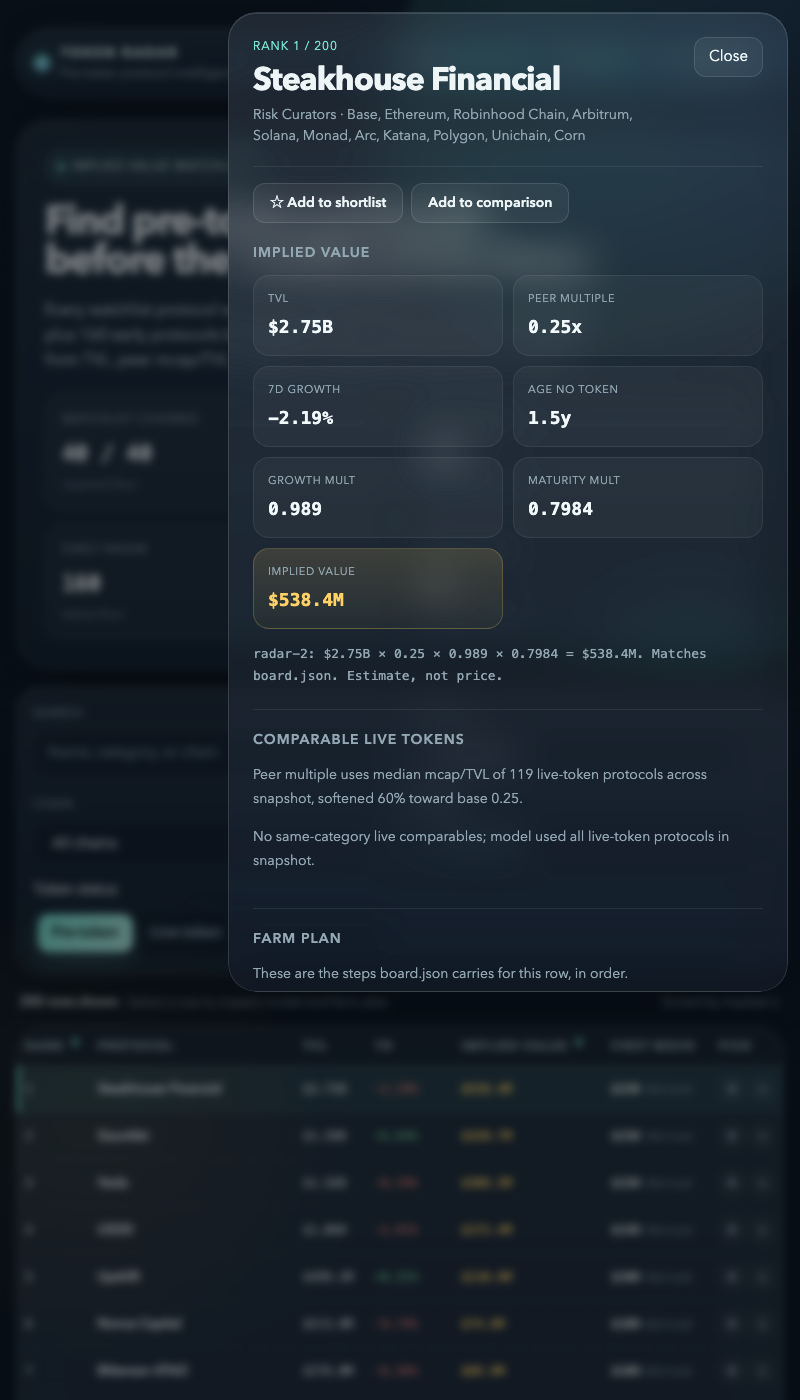
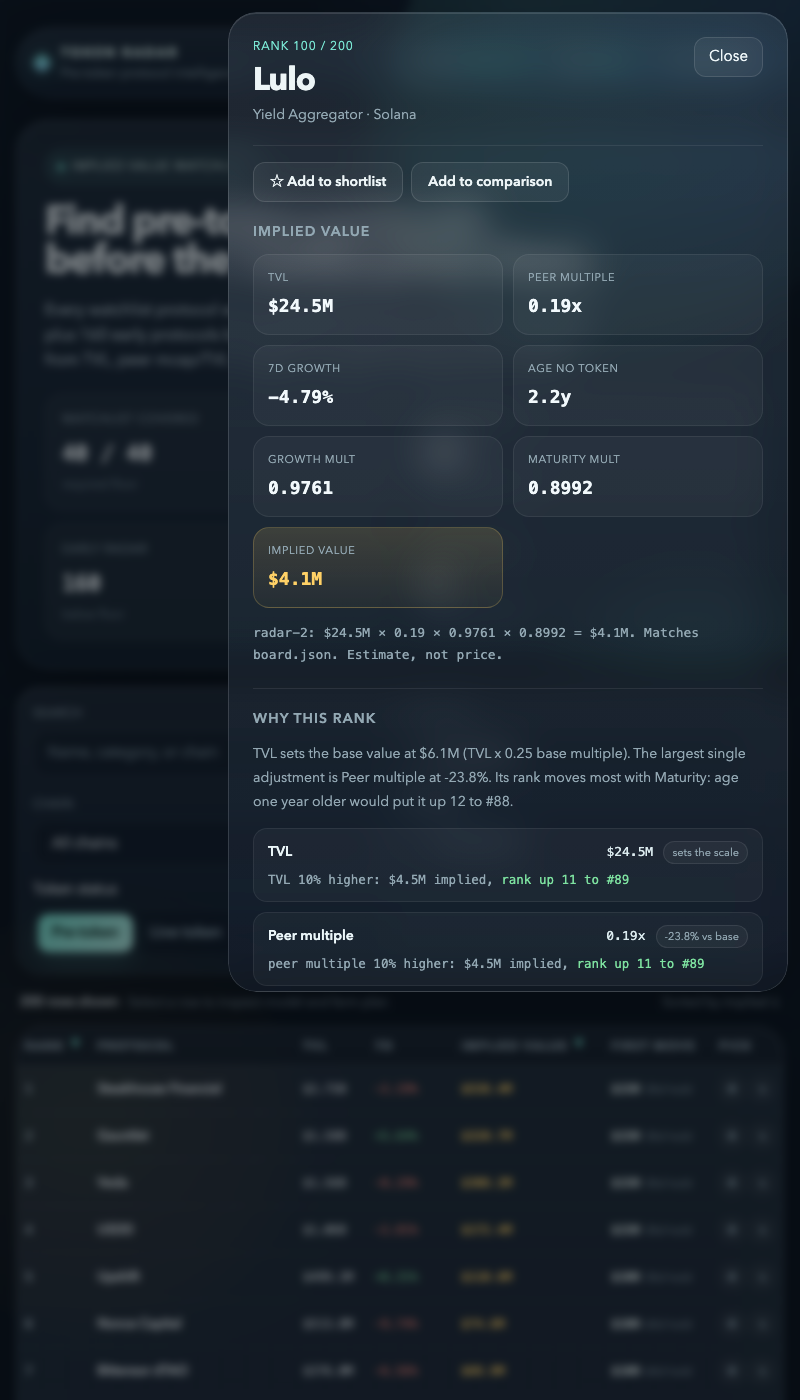
Explain each row's rank in the detail modal
A rank number alone does not say whether a protocol sits high on TVL, on
its category's peer multiple, or on youth. The modal now shows the base
value TVL sets, the largest single adjustment, and what happens to the
rank when TVL, peer multiple, growth or age moves on its own. The what-if
reuses the board's own ordering against the other rows at their board
values, so nothing is scored twice and board.json is unchanged.

diff --git a/dashboard/app.js b/dashboard/app.js
@@ -556,6 +556,81 @@
     );
   }
 
+  // A rank under the board's own ordering: implied value first, then slug, with this row replaced.
+  function rankAmong(implied, slug) {
+    var better = 0;
+    DATA.rows.forEach(function (r) {
+      if (r.slug === slug) return;
+      if (r.implied_value_usd > implied || (r.implied_value_usd === implied && r.slug < slug)) better++;
+    });
+    return better + 1;
+  }
+  function impliedFrom(tvl, multiple, growthMult, maturityMult) {
+    return Math.max(1, Math.round(tvl * multiple * growthMult * maturityMult));
+  }
+  function signedPct(v) { return (v >= 0 ? '+' : '') + (v * 100).toFixed(1) + '%'; }
+  function moveText(from, to) {
+    if (to === from) return 'rank unchanged';
+    var delta = from - to;
+    return 'rank ' + (delta > 0 ? 'up ' + delta + ' to #' + to : 'down ' + -delta + ' to #' + to);
+  }
+
+  function whySection(row) {
+    var m = DATA.model;
+    var mult = row.peer_multiple;
+    var gm = row.growth_multiplier;
+    var mm = row.maturity_multiplier;
+    var age = row.age_days === null || row.age_days === undefined ? m.unknown_age_days : row.age_days;
+    var growth = Math.min(m.growth_cap, Math.max(m.growth_floor, row.change_7d === null || row.change_7d === undefined ? 0 : row.change_7d));
+    var baseValue = row.tvl_usd * m.base_multiple;
+    var peerLift = mult / m.base_multiple;
+
+    var parts = [
+      { name: 'Peer multiple', lift: peerLift, now: mult.toFixed(2) + 'x' },
+      { name: '7d growth', lift: gm, now: fmtPct(row.change_7d) },
+      { name: 'Maturity', lift: mm, now: fmtAge(row.age_days) }
+    ].sort(function (a, b) { return Math.abs(b.lift - 1) - Math.abs(a.lift - 1); });
+    var top = parts[0];
+
+    var moves = [
+      { name: 'TVL', now: fmtUsd(row.tvl_usd), effect: 'sets the scale', change: 'TVL 10% higher', implied: impliedFrom(row.tvl_usd * 1.1, mult, gm, mm) },
+      { name: 'Peer multiple', now: mult.toFixed(2) + 'x', effect: signedPct(peerLift - 1) + ' vs base', change: 'peer multiple 10% higher', implied: impliedFrom(row.tvl_usd, round4(mult * 1.1), gm, mm) },
+      { name: '7d growth', now: fmtPct(row.change_7d), effect: signedPct(gm - 1), change: growth >= m.growth_cap ? 'growth already at the ' + m.growth_cap + ' point cap' : 'growth 10 points higher', implied: impliedFrom(row.tvl_usd, mult, round4(1 + Math.min(m.growth_cap, growth + 10) / 100 * m.growth_weight), mm) },
+      { name: 'Maturity', now: fmtAge(row.age_days), effect: signedPct(mm - 1), change: age >= m.maturity_days ? 'age already past the ' + Math.round(m.maturity_days / 365) + ' year maturity cap' : 'age one year older', implied: impliedFrom(row.tvl_usd, mult, gm, round4(m.maturity_floor + Math.min(age + 365, m.maturity_days) / m.maturity_days * m.maturity_range)) }
+    ];
+    moves.forEach(function (mv) { mv.rank = rankAmong(mv.implied, row.slug); });
+    var most = moves.slice().sort(function (a, b) { return Math.abs(b.rank - row.rank) - Math.abs(a.rank - row.rank); })[0];
+
+    var list = el('div', { class: 'why-list' });
+    moves.forEach(function (mv) {
+      var delta = row.rank - mv.rank;
+      list.appendChild(el('div', { class: 'why-row' },
+        el('div', { class: 'why-top' },
+          el('b', { text: mv.name }),
+          el('span', { class: 'why-now', text: mv.now }),
+          el('span', { class: 'why-eff', text: mv.effect })
+        ),
+        el('div', { class: 'why-move' },
+          mv.change + ': ' + fmtUsd(mv.implied) + ' implied, ',
+          el('span', { class: 'why-rank' + (delta > 0 ? ' up' : delta < 0 ? ' down' : ''), text: moveText(row.rank, mv.rank) })
+        )
+      ));
+    });
+
+    var headline = 'TVL sets the base value at ' + fmtUsd(baseValue) + ' (TVL x ' + m.base_multiple + ' base multiple). ' +
+      'The largest single adjustment is ' + top.name + ' at ' + signedPct(top.lift - 1) + '. ' +
+      (Math.abs(most.rank - row.rank) === 0
+        ? 'None of these one-at-a-time changes moves its rank.'
+        : 'Its rank moves most with ' + most.name + ': ' + most.change + ' would put it ' + moveText(row.rank, most.rank).replace('rank ', '') + '.');
+
+    return el('section', { class: 'section' },
+      el('h3', { text: 'Why this rank' }),
+      el('p', { class: 'detail-copy', text: headline }),
+      list,
+      el('p', { class: 'equation-note', text: 'Each line changes one factor and scores this row again against the other ' + (DATA.board_size - 1) + ' rows at their board values. A what-if for reading the board, not a change to board.json.' })
+    );
+  }
+
   var dialog = el('dialog', { class: 'detail', id: 'detail', 'aria-labelledby': 'detail-title' });
   dialog.addEventListener('close', function () { state.selected = null; writeHash(); render(); });
   dialog.addEventListener('click', function (e) {
@@ -606,6 +681,8 @@
       ),
       el('p', { class: 'equation-note', text: DATA.model_version + ': ' + fmtUsd(row.tvl_usd) + ' × ' + row.peer_multiple.toFixed(2) + ' × ' + row.growth_multiplier + ' × ' + row.maturity_multiplier + ' = ' + fmtUsd(recomputed) + '. ' + checks + ' Estimate, not price.' })
     ));
+
+    shell.appendChild(whySection(row));
 
     var comps = peerComps(row);
     var compSection = el('section', { class: 'section' },

diff --git a/dashboard/app.css b/dashboard/app.css
@@ -328,6 +328,22 @@ tbody tr:last-child td { border-bottom: 0; }
 .cat-bar > i { display: block; height: 100%; border-radius: inherit; background: linear-gradient(90deg, var(--accent), var(--value)); }
 .cat-best { color: var(--muted); font-family: var(--font-body); max-width: 200px; overflow: hidden; text-overflow: ellipsis; white-space: nowrap; }
 
+.why-list { display: grid; gap: 10px; }
+.why-row {
+  padding: 12px 14px; border-radius: 14px; background: rgba(255,255,255,0.035); border: 1px solid rgba(255,255,255,0.07);
+}
+.why-top { display: flex; align-items: baseline; gap: 10px; flex-wrap: wrap; }
+.why-top b { font-size: 14px; font-weight: 550; color: #ebf6f9; }
+.why-now { font-family: var(--font-num); font-size: 13px; color: #dcebef; margin-left: auto; }
+.why-eff {
+  padding: 2px 8px; border-radius: 999px; font-size: 11px; color: var(--muted); white-space: nowrap;
+  background: rgba(255,255,255,0.04); border: 1px solid rgba(255,255,255,0.09);
+}
+.why-move { margin-top: 6px; font-family: var(--font-num); font-size: 12.5px; line-height: 1.55; color: var(--muted); }
+.why-rank { color: #dcebef; }
+.why-rank.up { color: #7ee2a0; }
+.why-rank.down { color: var(--danger); }
+
 .detail-actions { display: flex; flex-wrap: wrap; gap: 8px; padding-top: 16px; }
 .detail-actions .btn { min-height: 40px; font-size: 14px; }
 .detail-actions .btn[aria-pressed="true"] {
